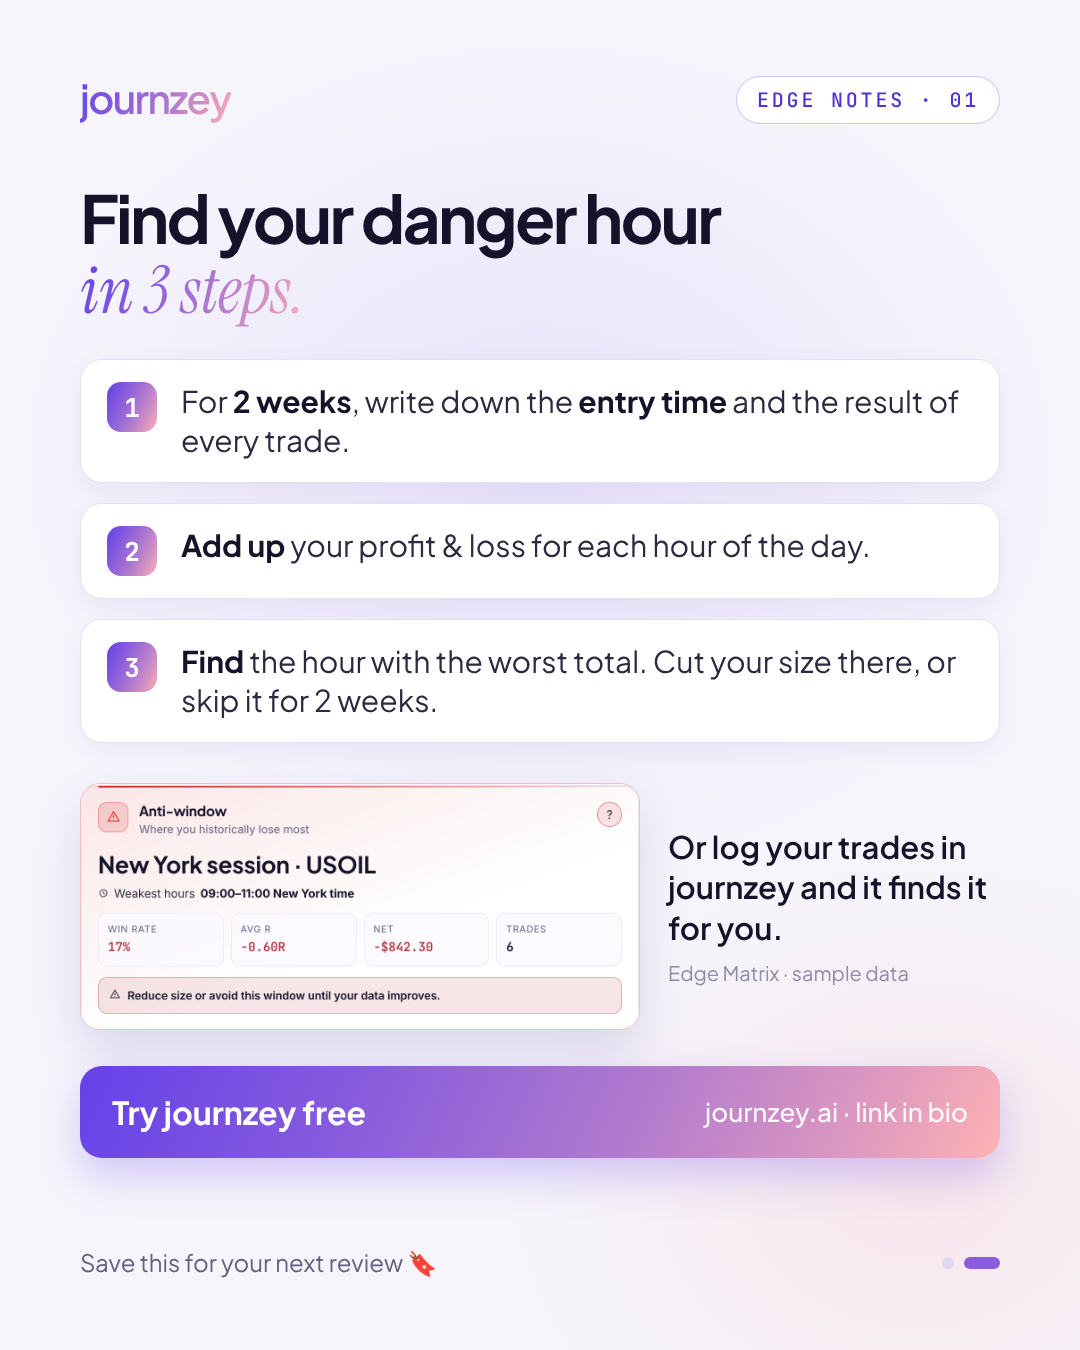
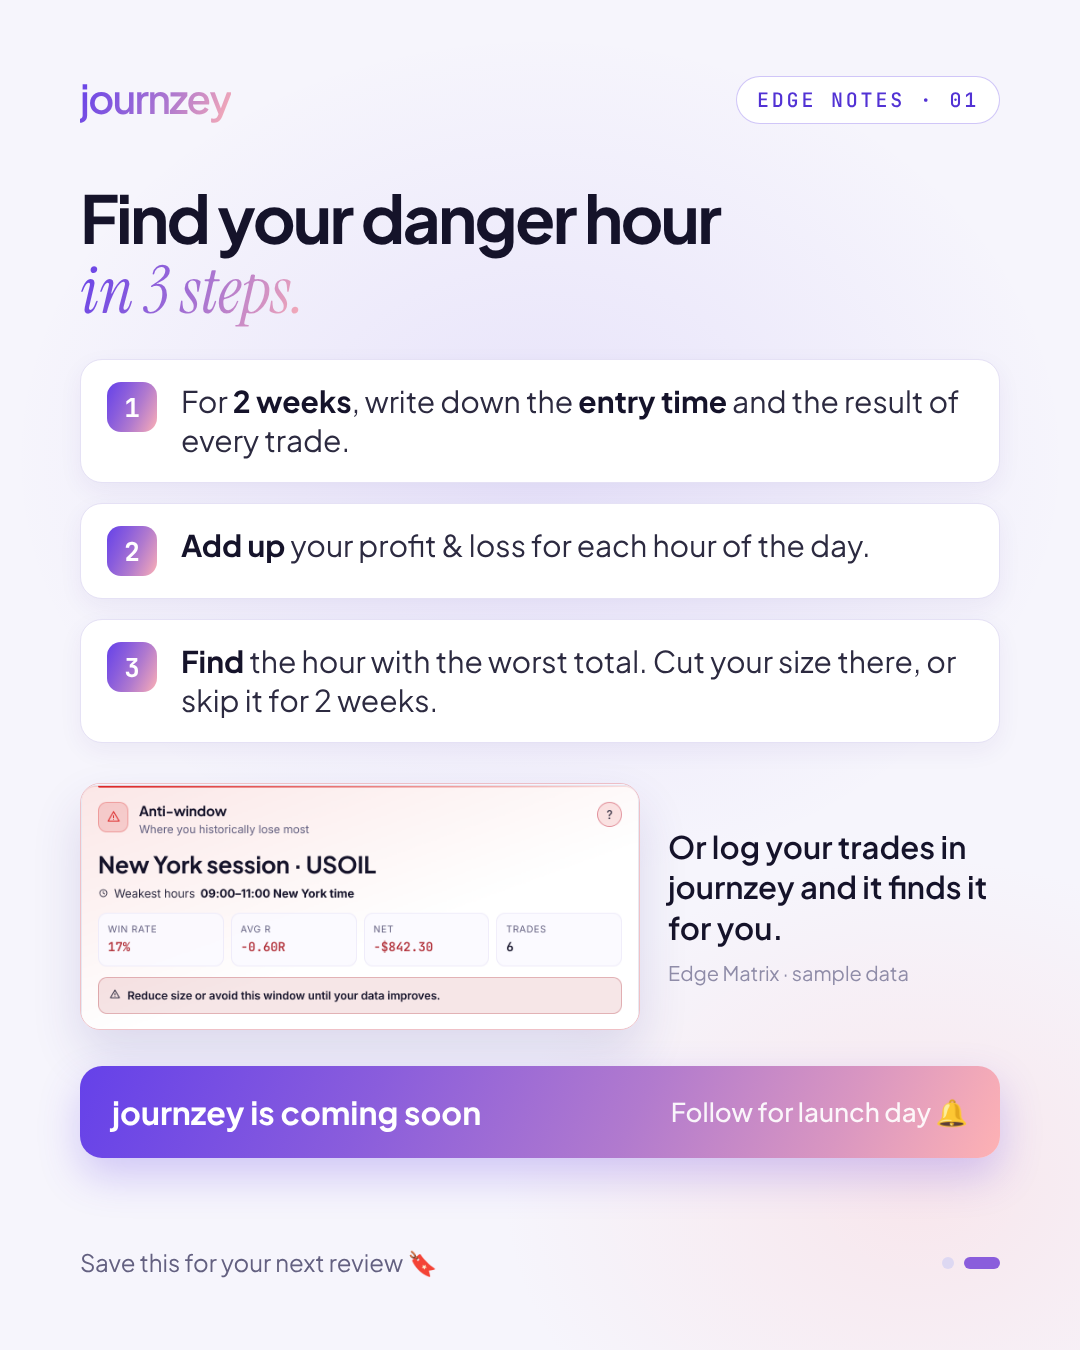
Edge Notes 01: pre-launch call to action (coming soon), no 'free' claim
Claude-Session: https://claude.ai/code/session_01MgL4Us7ksQsfohAV5KkAcm

Changed region(s): [[0.0917, 0.8089, 0.4583, 0.84], [0.6111, 0.8089, 0.9167, 0.84]]

diff --git a/docs/brand/instagram/edge-notes-template-light.html b/docs/brand/instagram/edge-notes-template-light.html
@@ -80,7 +80,7 @@ h2 { font-size: 66px; line-height: 1.04; letter-spacing: -.04em; color: var(--st
     <li><span class="n">3</span><span><b>Find</b> the hour with the worst total. Cut your size there, or skip it for 2 weeks.</span></li>
   </ol>
   <div class="auto"><img src="antiwindow-light.png" alt=""><p>Or log your trades in journzey and it finds it for you.<small>Edge Matrix · sample data</small></p></div>
-  <div class="cta">Try journzey free <span>journzey.ai · link in bio</span></div>
+  <div class="cta">journzey is coming soon <span>Follow for launch day 🔔</span></div>
   <div class="foot"><div>Save this for your next review 🔖</div><div class="dots"><i></i><i class="on"></i></div></div>
 </div>
 </body></html>

diff --git a/docs/brand/instagram/edge-notes-template.html b/docs/brand/instagram/edge-notes-template.html
@@ -66,7 +66,7 @@ h2 { font-size: 66px; line-height: 1.04; letter-spacing: -.04em; color: var(--st
     <li><span class="n">3</span><span><b>Find</b> the hour with the worst total. Cut your size there, or skip it for 2 weeks.</span></li>
   </ol>
   <div class="auto"><img src="antiwindow.png" alt=""><p>Or log your trades in journzey and it finds it for you.<small>Edge Matrix · sample data</small></p></div>
-  <div class="cta">Try journzey free <span>journzey.ai · link in bio</span></div>
+  <div class="cta">journzey is coming soon <span>Follow for launch day 🔔</span></div>
   <div class="foot"><div>Save this for your next review 🔖</div><div class="dots"><i></i><i class="on"></i></div></div>
 </div>
 </body></html>
